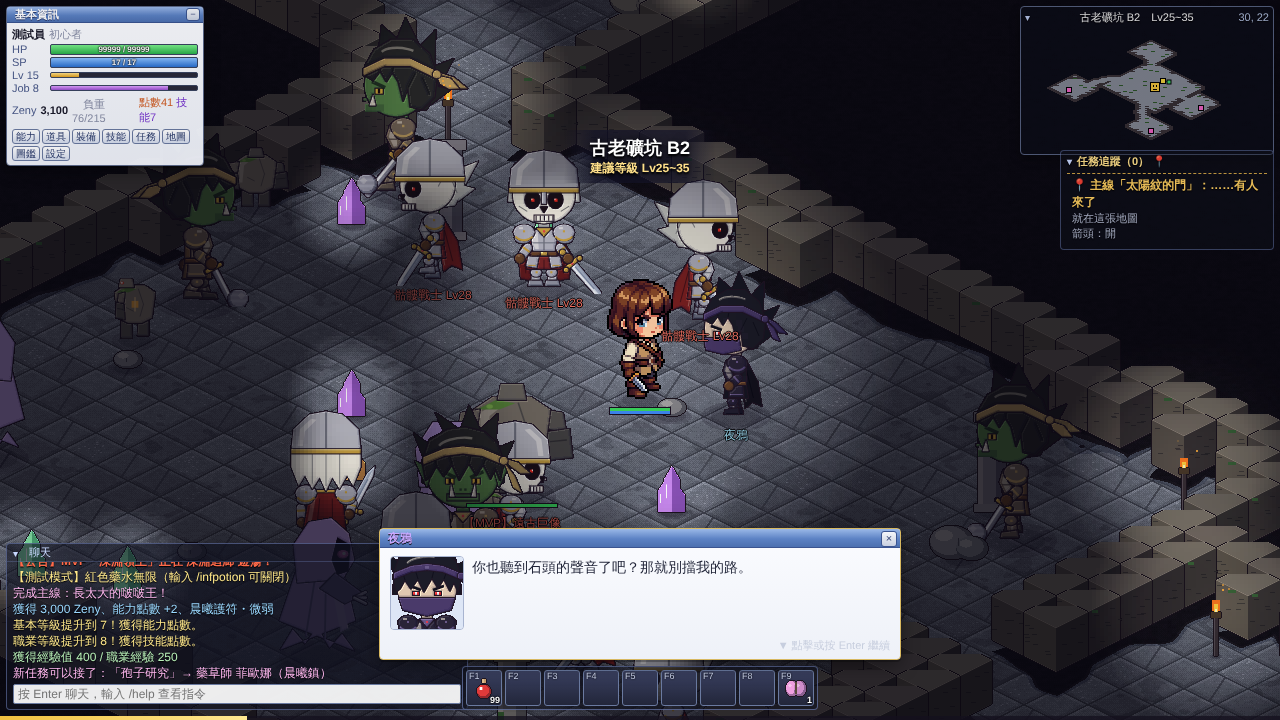
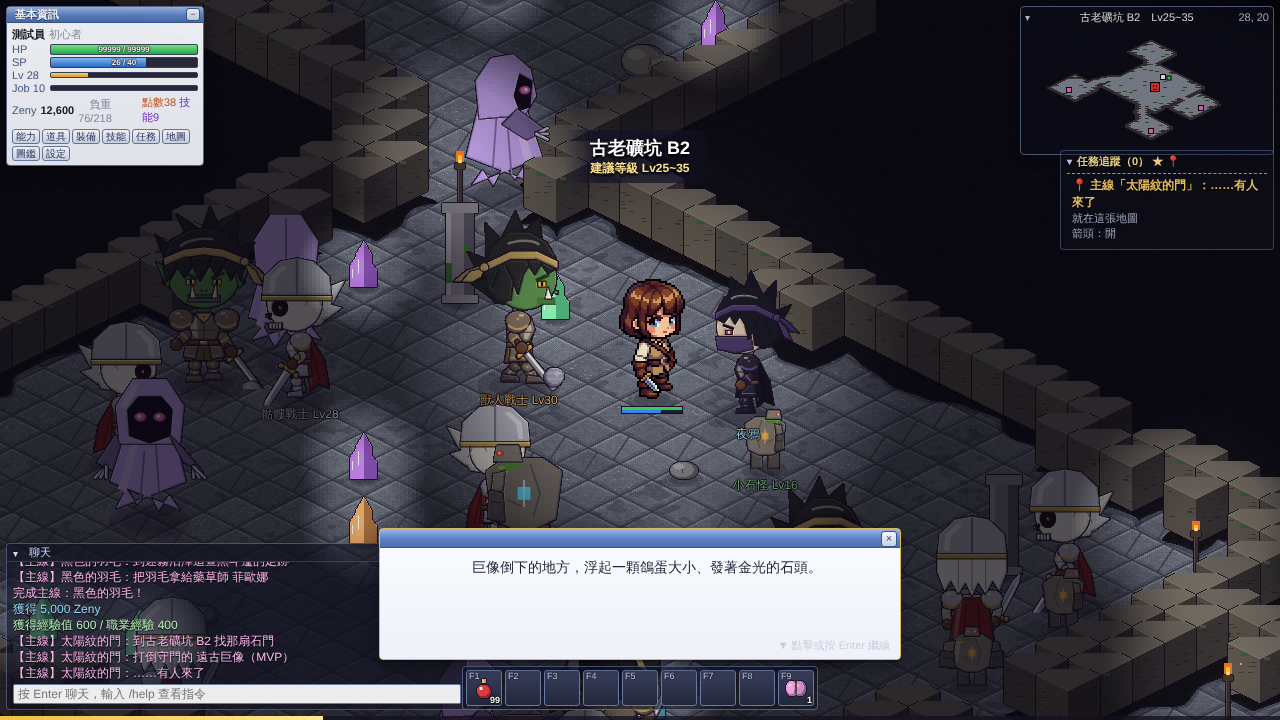
主線第二章：峽谷山賊、老守衛赫曼、遺跡壁畫、遺跡巨蛇與夜鴉對話、護符三階
Claude-Session: https://claude.ai/code/session_01T2m48yY9VNHhuqa1fb9V8L

diff --git a/ro-mmorpg/tools/act/story.js b/ro-mmorpg/tools/act/story.js
@@ -50,9 +50,21 @@ const out2 = await page.evaluate(() => {
   const G = window.__game, p = G.player, ch = p.ch, D = G.ui.dialog, R = {};
   const step = (n = 30) => { for (let i = 0; i < n; i++) G.update(1 / 60); };
   const finish = () => { let k = 0; while (D.isOpen && k++ < 400) { if (D.choices.length) D.onKey('1'); else D.advance(); } return !D.isOpen; };
+  const talk = (id) => { const n = G.npcs.find((o) => o.def.id === id); if (!n) return 'no npc ' + id; G.talkTo(n); return D.isOpen && D.el.classList.contains('story'); };
+  const walkSpot = () => { const s = G.story.spotHere(); if (!s) return 'no spot'; p.x = p.px = s.x + 0.5; p.y = p.py = s.y + 1.5; step(5); return D.isOpen; };
   G.loop.running = false; if (p.dead) { p.state = 'idle'; p.hp = p.maxHp; } R.wasDead = p.hp; finish(); step(120); R.crowGone = !G.npcs.some((n) => n.def.id === 'crow');
   G.loadMap('aurora', 25, 30); step(); const s = G.story.spotHere(); p.x = p.px = s.x + 0.5; p.y = p.py = s.y + 1.5; step(5); finish();
   R.state = [JSON.stringify(G.flags.story), G.map.def.id, D.isOpen, G.story.scene, !!G.warp, G.player.x, G.player.y, G.player.dead]; R.c1c = G.story.isDone('m_1c'); R.charm = G.inv.items.filter((i) => i.id.startsWith('dawn_charm')).map((i) => [i.id, G.inv.isEquipped(i.uid)]);
+  // 第二章
+  p.recalc(); p.hp = p.maxHp = 99999; ch.baseLv = 30; step(); R.c2start = [G.story.st.q, G.story.st.started];
+  talk('captain'); finish(); G.loadMap('canyon', 7, 9); step(); walkSpot(); finish();
+  G.ev.emit('kill', 'bandit_king'); step(); R.c2kill = G.story.st.step; walkSpot(); finish(); R.c2a = G.story.isDone('m_2a');
+  ch.baseLv = 38; step(); G.loadMap('ruins', 11, 49); step(); R.herman = G.guide.get().text; R.c2talk = talk('herman'); finish();
+  step(); walkSpot(); finish(); R.c2b = G.story.isDone('m_2b');
+  ch.baseLv = 50; step(); G.loadMap('ruins', 11, 49); step(); G.ev.emit('kill', 'serpent'); step(10); step(160);
+  R.c2crow = D.isOpen && G.story.scene; finish(); step(120);
+  G.loadMap('aurora', 25, 30); step(); walkSpot(); finish(); R.c2c = G.story.isDone('m_2c');
+  R.charm3 = G.inv.items.filter((i) => i.id.startsWith('dawn_charm')).map((i) => i.id);
   R.after = [G.story.st.q, G.story.finished, G.guide.get()?.text];
   R.saved = JSON.parse(JSON.stringify(G.flags.story)).done.length;
   // 舊存檔：沒有 flags.story → 從序章開始

diff --git a/ro-mmorpg/PROGRESS.md b/ro-mmorpg/PROGRESS.md
@@ -633,4 +633,5 @@
 - 新 NPC 定義 `crow`（夜鴉，劍士系畫法＋面巾、深色盔甲），不放在任何地圖，只在演出時出現。
 - 順便修正：像素字型沒有「?」，所以原本「任務可回報」的綠色「?」從來沒顯示出來；已補上。
 - 測試 `tools/act/story.js`（所有調查點可走且從入口走得到、整條主線用實際的 talkTo／走到調查點／kill 事件跑完、夜鴉出現與淡出、護符升級且保持裝備、舊存檔）、`tools/act/story_shots.js`（截圖）；回歸 guide／questfind／tips／tips2／starfall／storage／s6／jobs5_dialog 通過、無 console 錯誤。截圖 `主線_調查點.png`、`主線_晨曦石之靈.png`、`主線_夜鴉.png`、`主線_任務視窗.png`、`手機_主線_晨曦石之靈.png`、`手機_主線_任務視窗.png`。
-- 下一步：第二章（赤岩峽谷、失落遺跡、老守衛赫曼、山賊王、遺跡巨蛇）。
+- 第二章已做（3 個任務 Lv30／38／50）：巴德→峽谷山賊營火→打山賊王→委託書（黑羽印記）；失落遺跡入口新 NPC 老守衛赫曼（`herman`，遺跡 (13,47)）講黎明之國→遺跡壁畫；打遺跡巨蛇→夜鴉晚一步、兩人第一次交談→回噴水池，護符三階（+3 能力點）。`tools/act/story.js` 已含第二章整條與調查點可達檢查。
+- 下一步：第三章（凜冬雪原、熔岩谷：霜牙狼王、赤焰地龍，確認 MVP 就是守護者，夜鴉留下遠征隊舊徽章）。

diff --git a/ro-mmorpg/STORY.md b/ro-mmorpg/STORY.md
@@ -1,6 +1,6 @@
 # 主線劇情大綱（草案，待作者確認）
 
-> 狀態：作者已同意大綱（2026-11）。**已實作：系統＋序章＋第一章**；第二～四章、終章待做。台詞與步驟在 `data/story.json`。
+> 狀態：作者已同意大綱（2026-11）。**已實作：系統＋序章＋第一章＋第二章**；第三、四章、終章待做。台詞與步驟在 `data/story.json`。
 > 原則：只用本作原創的地名、怪物與 NPC；現有的打怪／收集任務全部保留，改當「支線」；主線不擋練功，等級到了就能接。
 
 ## 一句話
